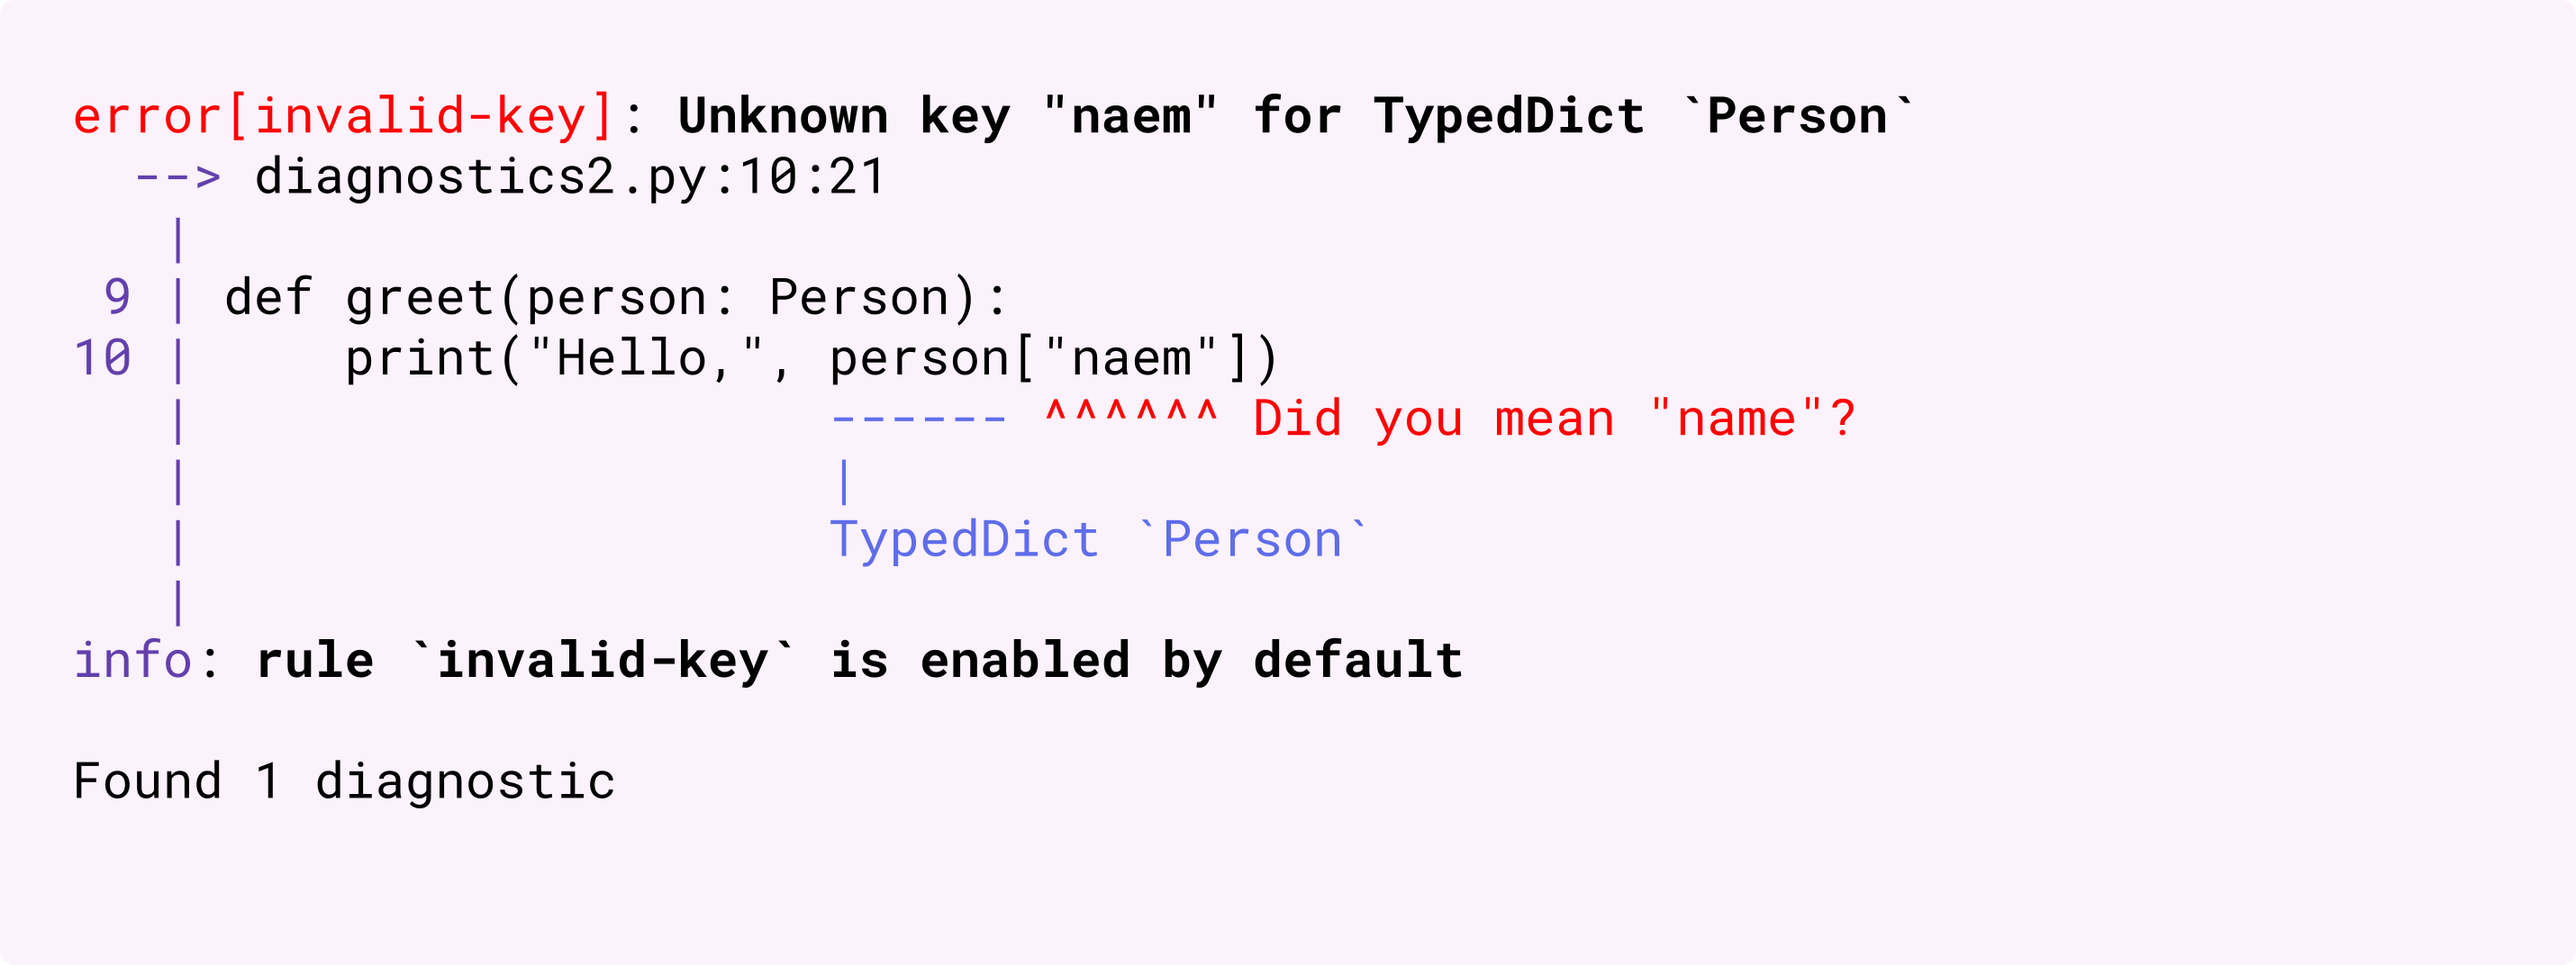
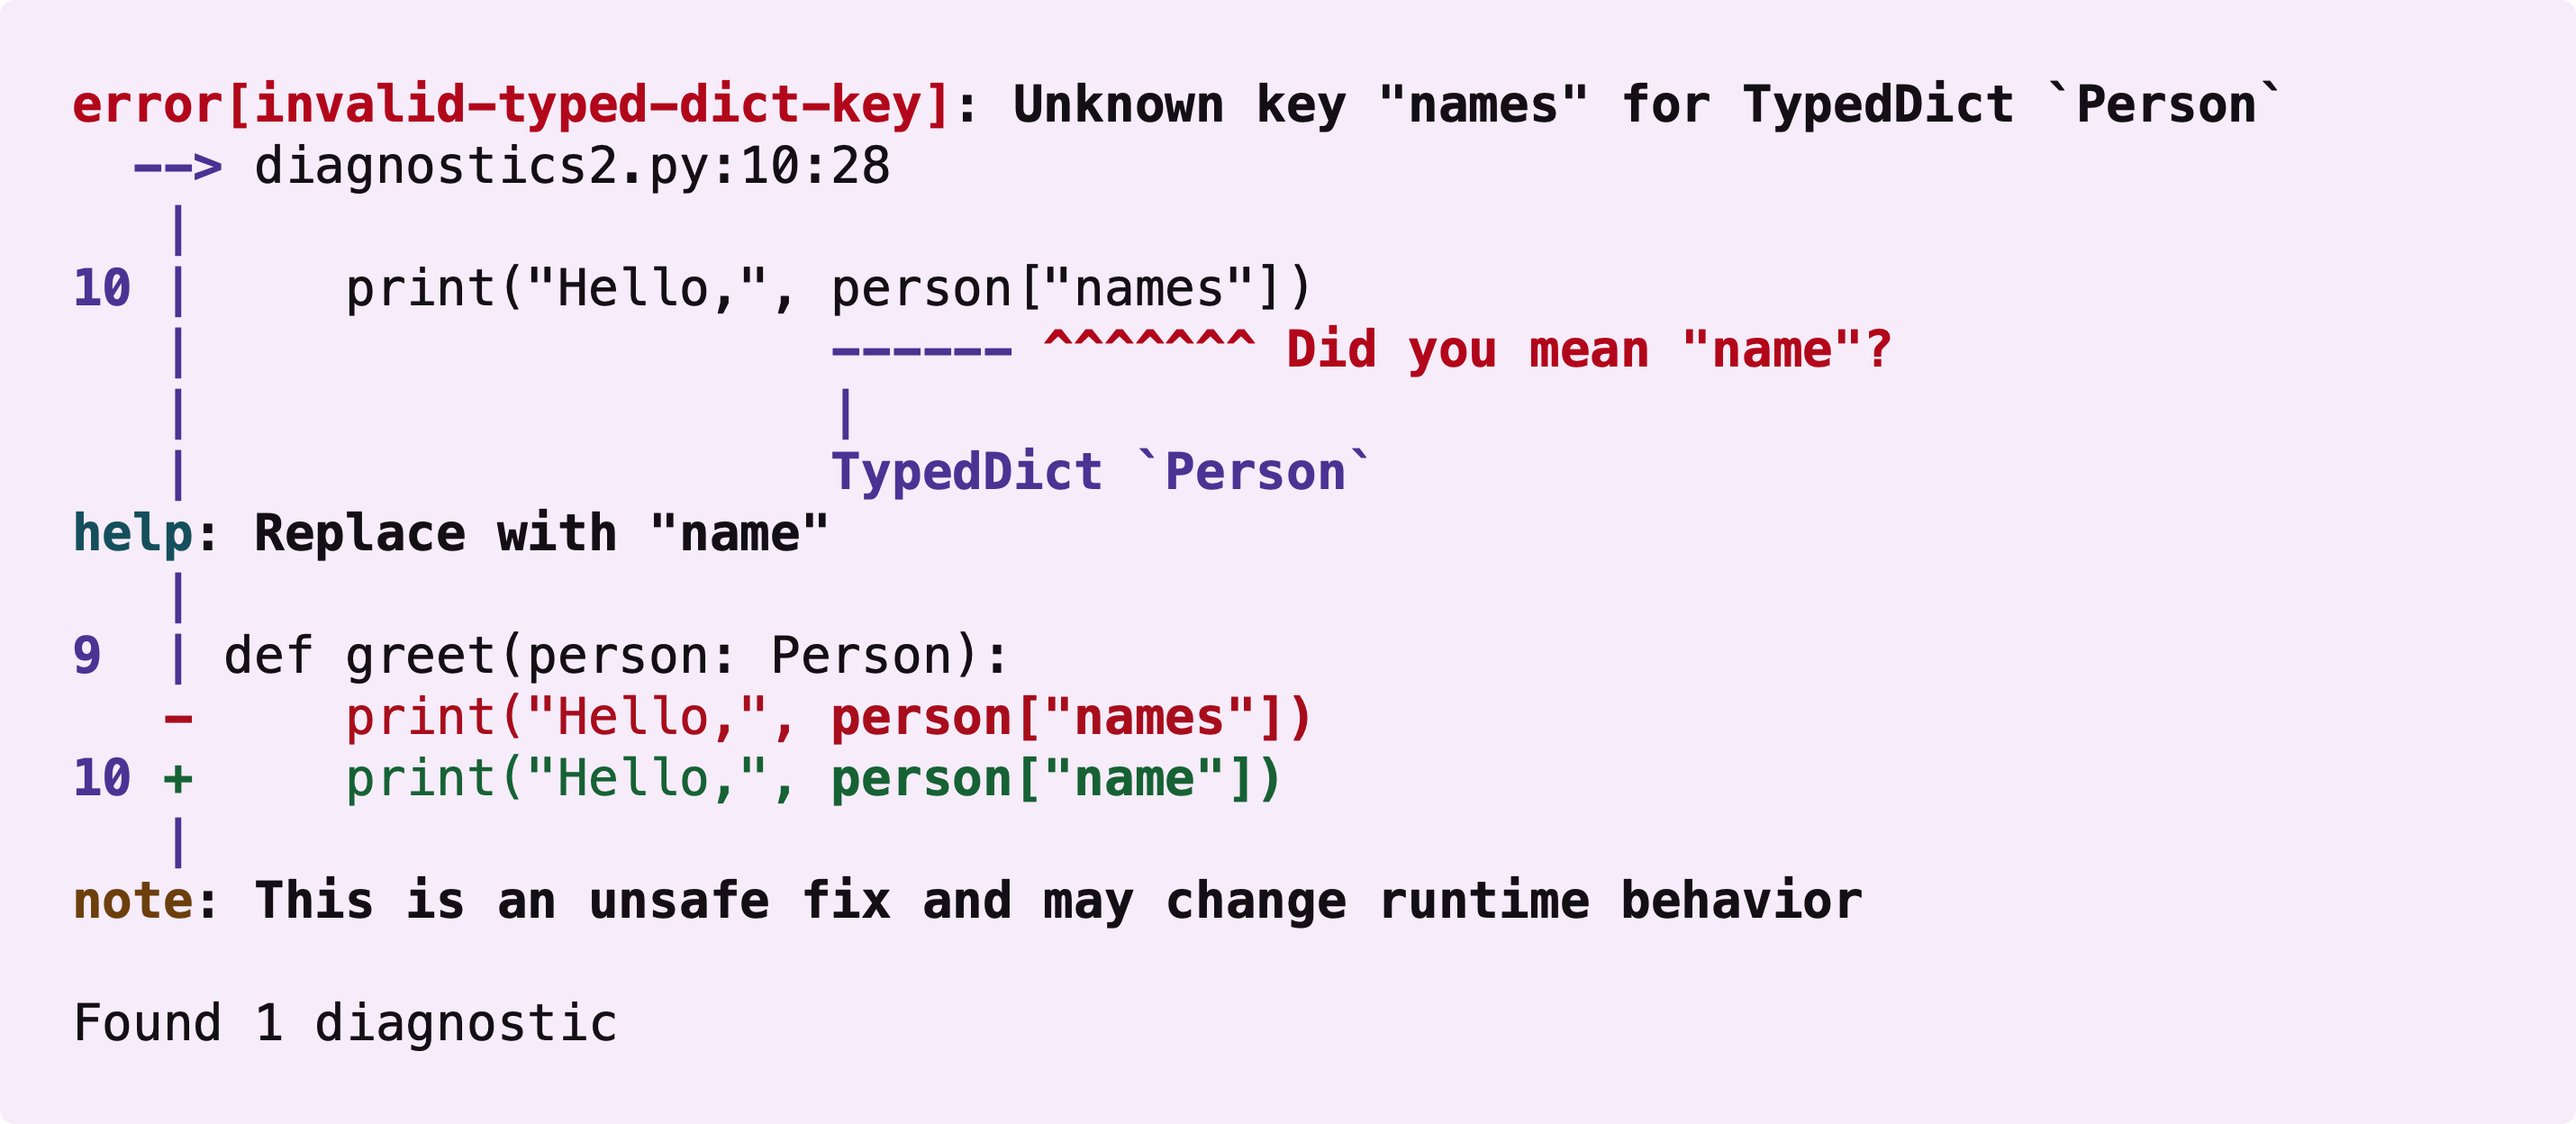
[ty] Address documentation review feedback

diff --git a/docs/python-version.md b/docs/python-version.md
@@ -3,10 +3,9 @@
 The Python version affects allowed syntax, type definitions of the standard library, and type
 definitions of first- and third-party modules that are conditional on the Python version.
 
-For example, Python 3.10 introduced support for `match` statements and added the
-`sys.stdlib_module_names` symbol to the standard library. Syntactic features always
-need to be available in the lowest supported Python version, but symbols may be used
-in a `sys.version_info` conditional branch:
+For example, Python 3.10 introduced support for `match` statements, and Python 3.15 added
+`sys.abi_info` to the standard library. Syntactic features always need to be available in the
+lowest supported Python version, but symbols may be used in a `sys.version_info` conditional branch.
 
 ```python
 import sys
@@ -18,26 +17,27 @@ match "echo hello".split():
     case _:
         print("unknown command")
 
-# `unresolved-attribute` error if `python-version` is set to 3.9 or lower:
-print(sys.stdlib_module_names)
+# `missing-attribute` error if `python-version` is set to 3.14 or lower:
+print(sys.abi_info)
 
-if sys.version_info >= (3, 10):
-    # ok, because the usage is guarded by a version check:
-    print(sys.stdlib_module_names)
+if sys.version_info >= (3, 15):
+    # ty skips this branch for older targets, where `sys.abi_info` is unavailable.
+    print(sys.abi_info)
 ```
 
 By default, the lower bound of the project's [`requires-python`](https://packaging.python.org/en/latest/guides/writing-pyproject-toml/#python-requires) field (from the `pyproject.toml`) is
 used as the target Python version, ensuring that features and symbols only available in newer Python
 versions are not used.
 
-Scripts with PEP 723 inline metadata use their own `requires-python` field instead of the
-project's value. They do not inherit the Python version of the enclosing project.
+For [scripts with inline metadata](./scripts.md), ty uses the script's inline
+`environment.python-version` if set, then the lower bound of its `requires-python` field. If the
+inline metadata has neither setting and contains no `[tool.ty]` table, the script can inherit the
+project's Python version.
 
-If the `requires-python` field is not available but a virtual environment *has* been
-configured or detected, ty will try to infer the Python version being used from the virtual
-environment's metadata.
+If `requires-python` is absent and no target version has been set, ty will try to infer it from
+the configured or discovered [Python environment](./modules.md#python-environment).
 
-If no virtual environment is present or inferring the Python version from the metadata fails,
+If no Python environment is present or inferring the Python version from it fails,
 ty will fall back to the default [`python-version`](./reference/configuration.md#python-version).
 
 The Python version may also be explicitly specified using the

diff --git a/docs/reference/typing-faq.md b/docs/reference/typing-faq.md
@@ -261,14 +261,15 @@ In some cases it's also a reasonable solution to create a copy of the list
 
 ## Why does ty say `Callable` has no attribute `__name__`?
 
-When you access `__name__`, `__qualname__`, `__module__`, or `__doc__` on a value typed as `Callable`,
-ty reports an `unresolved-attribute` error. This is because not all callables have these attributes.
-Functions do (including lambdas), but other callable objects do not. The `FileUpload` class below, for
-example, is callable, but instances of `FileUpload` do not have a `__name__` attribute. Passing a
-`FileUpload` instance to `retry` would lead to an `AttributeError` at runtime.
+When you access `__name__` or `__qualname__` on a value typed as `Callable`, ty reports a
+[`missing-attribute`](./rules.md#missing-attribute) error. This is because not all callables have
+these attributes. Functions do (including lambdas), but other callable objects may lack them.
+Instances of `FileUpload` below, for example, are callable but do not have a `__name__` attribute.
+Passing a `FileUpload` instance to `retry` would lead to an `AttributeError` at runtime.
 
 ```py
 from typing import Callable
+
 
 def retry(times: int, operation: Callable[[], bool]) -> bool:
     for i in range(times):
@@ -278,12 +279,14 @@ def retry(times: int, operation: Callable[[], bool]) -> bool:
             return True
     return False
 
+
 class FileUpload:
     def __init__(self, name: str) -> None:
-        # …
+        self.name = name
 
     def __call__(self) -> bool:
-        # …
+        return bool(self.name)
+
 
 retry(3, FileUpload("image.png"))
 ```
@@ -300,6 +303,8 @@ Alternatively, you could use an `isinstance(…, types.FunctionType)` check to n
 `operation` to something that definitely has a `__name__` attribute:
 
 ```py
+from types import FunctionType
+
 if isinstance(operation, FunctionType):
     print(f"Calling {operation.__name__}, attempt {i + 1} of {times}")
 else:
@@ -442,9 +447,13 @@ topic.
 
 ## Does ty support inline script metadata (PEP 723)? { #does-ty-support-pep-723-inline-metadata-scripts }
 
-Yes. Use `TY_UV=scripts ty check script.py` or `uv check --script script.py` to check a script
-with its declared dependencies. See [Checking standalone scripts](../scripts.md) for instructions on how to check multiple
-scripts together or how to enable support in your editor.
+Yes! (But you have to opt in.)
+
+Use `TY_UV=scripts ty check script.py` or `uv check --script script.py` to check a script with its
+declared dependencies. See [Checking standalone scripts](../scripts.md) for instructions on how
+to check multiple scripts together or how to enable support in your editor.
+
+Follow [this issue](https://github.com/astral-sh/ty/issues/691) for further discussion of script support.
 
 ## Is there a pre-commit hook for ty?
 

diff --git a/docs/features/diagnostics.md b/docs/features/diagnostics.md
@@ -1,22 +1,23 @@
 # Diagnostics
 
 ty provides diagnostics that include snippets of your source code, annotations, and helpful
-explanations. It sometimes suggests how to fix the reported issues.
+explanations. It will sometimes also provide suggestions on how to fix the reported issues.
 
 ## Example: Typed dictionaries
 
-In this example, ty detected an invalid assignment to a `TypedDict` key. The
-diagnostic includes both the context around the line with the error and a reference to the
+In this first example, ty detected an invalid assignment to a `TypedDict` key. Notice how the
+diagnostic includes both the context around the line with the error, as well as the reference to the
 `age` item in the `TypedDict` definition:
 
 ![TypedDict invalid-assignment diagnostic](screenshots/diagnostics1.dark.png#only-dark)
 ![TypedDict invalid-assignment diagnostic](screenshots/diagnostics1.light.png#only-light)
 
 When a `TypedDict` key is misspelled, ty will suggest the correct spelling. If you are using an
-editor with language server support, you can also apply this suggestion as a quick fix:
+editor with language server support, you can also apply this suggestion as a
+[quick fix](./language-server.md#code-actions-and-refactorings):
 
-![TypedDict misspelled-key diagnostic](screenshots/diagnostics2.dark.png#only-dark)
-![TypedDict misspelled-key diagnostic](screenshots/diagnostics2.light.png#only-light)
+![ty suggests replacing “names” with “name” but marks the fix as unsafe because it may change runtime behavior](screenshots/diagnostics2.dark.png#only-dark)
+![ty suggests replacing “names” with “name” but marks the fix as unsafe because it may change runtime behavior](screenshots/diagnostics2.light.png#only-light)
 
 ## Example: Invalid arguments
 
@@ -33,5 +34,5 @@ Instead of just telling you that `tomllib` cannot be found, ty tells you *why* i
 available for your project. In this case, your project is targeting Python 3.10, but `tomllib` was
 only added in Python 3.11:
 
-![Missing import diagnostic](screenshots/diagnostics4.dark.png#only-dark)
-![Missing import diagnostic](screenshots/diagnostics4.light.png#only-light)
+![ty explains that tomllib requires Python 3.11 or later and highlights requires-python = ">=3.10" in pyproject.toml](screenshots/diagnostics4.dark.png#only-dark)
+![ty explains that tomllib requires Python 3.11 or later and highlights requires-python = ">=3.10" in pyproject.toml](screenshots/diagnostics4.light.png#only-light)

diff --git a/docs/coming-from-mypy-or-pyright.md b/docs/coming-from-mypy-or-pyright.md
@@ -48,7 +48,7 @@ mode of other type checkers with the following configuration:
 dynamic-function-decorator-return = "error"
 missing-type-argument = "error"
 possibly-unresolved-reference = "warn"
-unsound-return-statement = "error"
+unsound-return = "error"
 
 [tool.ruff.lint]
 extend-select = ["ANN", "PYI"]
@@ -57,7 +57,7 @@ preview = true
 
 This configuration:
 
-- Enables ty's disabled-by-default [`dynamic-function-decorator-return`](https://docs.astral.sh/ty/reference/rules/#dynamic-function-decorator-return), [`missing-type-argument`](https://docs.astral.sh/ty/reference/rules/#missing-type-argument), [`possibly-unresolved-reference`](https://docs.astral.sh/ty/reference/rules/#possibly-unresolved-reference), and [`unsound-return-statement`](https://docs.astral.sh/ty/reference/rules/#unsound-return-statement) rules
+- Enables ty's disabled-by-default [`dynamic-function-decorator-return`](https://docs.astral.sh/ty/reference/rules/#dynamic-function-decorator-return), [`missing-type-argument`](https://docs.astral.sh/ty/reference/rules/#missing-type-argument), [`possibly-unresolved-reference`](https://docs.astral.sh/ty/reference/rules/#possibly-unresolved-reference), and [`unsound-return`](https://docs.astral.sh/ty/reference/rules/#unsound-return) rules
 - Extends Ruff's default rules with the [`ANN`](https://docs.astral.sh/ruff/rules/#flake8-annotations-ann) and [`PYI`](https://docs.astral.sh/ruff/rules/#flake8-pyi-pyi) rule categories, both of which are focussed on type-annotating your code more effectively
 - Enables Ruff's preview mode so that `PYI033` also checks `.py` files
 
@@ -71,7 +71,7 @@ dynamic-function-decorator-return = "error"
 missing-type-argument = "error"
 possibly-unresolved-reference = "warn"
 unsound-assignment = "error"
-unsound-return-statement = "error"
+unsound-return = "error"
 unsound-yield = "error"
 unsupported-dynamic-base = "warn"
 

diff --git a/docs/reference/editor-settings.md b/docs/reference/editor-settings.md
@@ -142,8 +142,8 @@ ______________________________________________________________________
 Whether to disable language services in the ty language server, such as code completion, hover,
 and go to definition.
 
-This is useful if you want to use ty exclusively for type checking and another language server
-for those features.
+This is useful if you want to use ty exclusively for type checking and want to use
+another language server for those features.
 
 **Default value**: `false`
 
@@ -264,8 +264,8 @@ ______________________________________________________________________
 
 Whether to show syntax error diagnostics.
 
-When using ty with other language servers, you can use this setting to see syntax errors from only
-one source.
+When using ty alongside other language servers, you can use this setting to see syntax errors from
+only one source.
 
 **Default value**: `true`
 
@@ -665,8 +665,8 @@ ______________________________________________________________________
 
 ## Initialization options
 
-The following settings are required when ty is initialized in an editor. These settings are
-static, so changing them requires restarting the editor to take effect.
+The following settings are read when ty is initialized in an editor. Changing them requires
+restarting the language server.
 
 For VS Code users, most of these settings are defined in the `ty.*` namespace as usual, but for other
 editors, they would need to be provided in a separate field of the configuration that corresponds to

diff --git a/docs/modules.md b/docs/modules.md
@@ -59,15 +59,17 @@ The Python environment is used for discovery of third-party modules.
 For a project with no explicitly configured environment, ty searches for one in the following order:
 
 1. An active virtual environment, using the `VIRTUAL_ENV` environment variable.
-1. An active [non-`base` Conda environment](https://docs.conda.io/projects/conda/en/stable/user-guide/getting-started.html#listing-environments).
+1. An active [non-`base` Conda environment](https://docs.conda.io/projects/conda/en/stable/user-guide/getting-started.html#listing-environments)
+    or [Pixi environment](https://pixi.sh/) containing Python.
 1. A `.venv` directory in the project root.
-1. An active [`base` Conda environment](https://docs.conda.io/projects/conda/en/stable/user-guide/getting-started.html#listing-environments).
+1. An active [`base` Conda environment](https://docs.conda.io/projects/conda/en/stable/user-guide/getting-started.html#listing-environments)
+    containing Python.
 1. A `python3` or `python` interpreter on `PATH`.
 
 !!! note
 
     When using project management tools such as uv or Poetry, the `run` command usually activates
-    the virtual environment automatically, so ty can detect it.
+    the virtual environment automatically, causing it to be naturally detected by ty.
 
 The Python environment may be explicitly configured using the
 [`environment.python`](./reference/configuration.md#python) setting or

diff --git a/docs/type-checking.md b/docs/type-checking.md
@@ -20,11 +20,12 @@ ty check
 The type checker needs to discover your installed packages in order to check your use of imported
 dependencies.
 
-ty discovers packages from a Python environment, such as an active virtual or Conda environment or
-a `.venv` in the project root. If none is found, ty looks for a `python3` or `python` binary on
-`PATH`. Use the `--python` flag to explicitly specify a path to a Python interpreter.
+ty will discover installed packages in an active virtual environment, an active Conda or Pixi
+environment containing Python, or a virtual environment named `.venv` in the project root. If none of
+these is found, ty looks for a `python3` or `python` binary on `PATH`. Use the `--python` flag to
+explicitly specify a path to a Python interpreter or environment.
 
-See the [module discovery](./modules.md) documentation for the full search order.
+See the [module discovery](./modules.md#python-environment) documentation for the full search order.
 
 For scripts that declare their dependencies using inline metadata, see
 [Checking standalone scripts](./scripts.md).

diff --git a/docs/exclusions.md b/docs/exclusions.md
@@ -50,8 +50,8 @@ You may explicitly pass the paths that ty should check, e.g.:
 ty check src scripts/benchmark.py
 ```
 
-Paths that are passed as positional arguments to `ty check` are included even if they would otherwise be ignored through `exclude` filters or an ignore-file.
-Pass [`--force-exclude`](./reference/cli.md#ty-check--force-exclude) to apply exclusions to these paths as well.
+By default, paths that are passed as positional arguments to `ty check` are included even if they would otherwise be ignored through `exclude` filters or an ignore-file.
+[`--force-exclude`](./reference/cli.md#ty-check--force-exclude) can be used to apply exclusions to these paths as well.
 
 ## Include and exclude syntax
 
@@ -88,4 +88,4 @@ named `my-env`:
 echo "*" > my-env/.gitignore
 ```
 
-You can also add your virtual environment to your `.gitignore` or `.ignore` file.
+Or by adding your virtual environment to your `.gitignore` or `.ignore` file.

diff --git a/docs/features/language-server.md b/docs/features/language-server.md
@@ -54,7 +54,7 @@ ty powers several language server features that allow you to navigate a Python c
   <figcaption>Accepting this completion will automatically add a <code>subprocess</code> import at the top of the file.</figcaption>
 </figure>
 
-ty provides code completions as you type, suggesting variables, functions, classes, and modules that are in scope.
+ty provides intelligent code completions as you type, suggesting variables, functions, classes, and modules that are in scope.
 For symbols that are not yet imported, ty suggests auto-import actions to add the necessary `import` statements.
 
 ## Code actions and refactorings

diff --git a/docs/rules.md b/docs/rules.md
@@ -12,7 +12,7 @@ specific pattern and can be turned on or off depending on your project’s needs
 
 Each rule has a configurable level:
 
-- `error`: violations are reported as errors and ty exits with an exit code of 1 if there are any.
+- `error`: violations are reported as errors. By default, ty exits with code `1` if there are any.
 - `warn`: violations are reported as warnings. By default, ty exits with code `1` if there are only
     warning-level violations. Use `--exit-zero-on-warning` or set `terminal.error-on-warning` to
     `false` to exit with code `0` instead.

diff --git a/docs/configuration.md b/docs/configuration.md
@@ -37,4 +37,4 @@ For example, if a string, number, or boolean is present in both the project- and
 
 Settings provided via command line take precedence over persistent configuration.
 
-See the [configuration](./reference/configuration.md) reference for the available settings.
+See the [configuration](./reference/configuration.md) reference for all available settings.

diff --git a/docs/editors.md b/docs/editors.md
@@ -1,6 +1,6 @@
 # Editor integration
 
-ty integrates with various editors to provide type checking and language server features.
+ty can be integrated with various editors to provide a seamless development experience.
 
 Learn more about ty's editor features in the [language server](./features/language-server.md)
 documentation.
